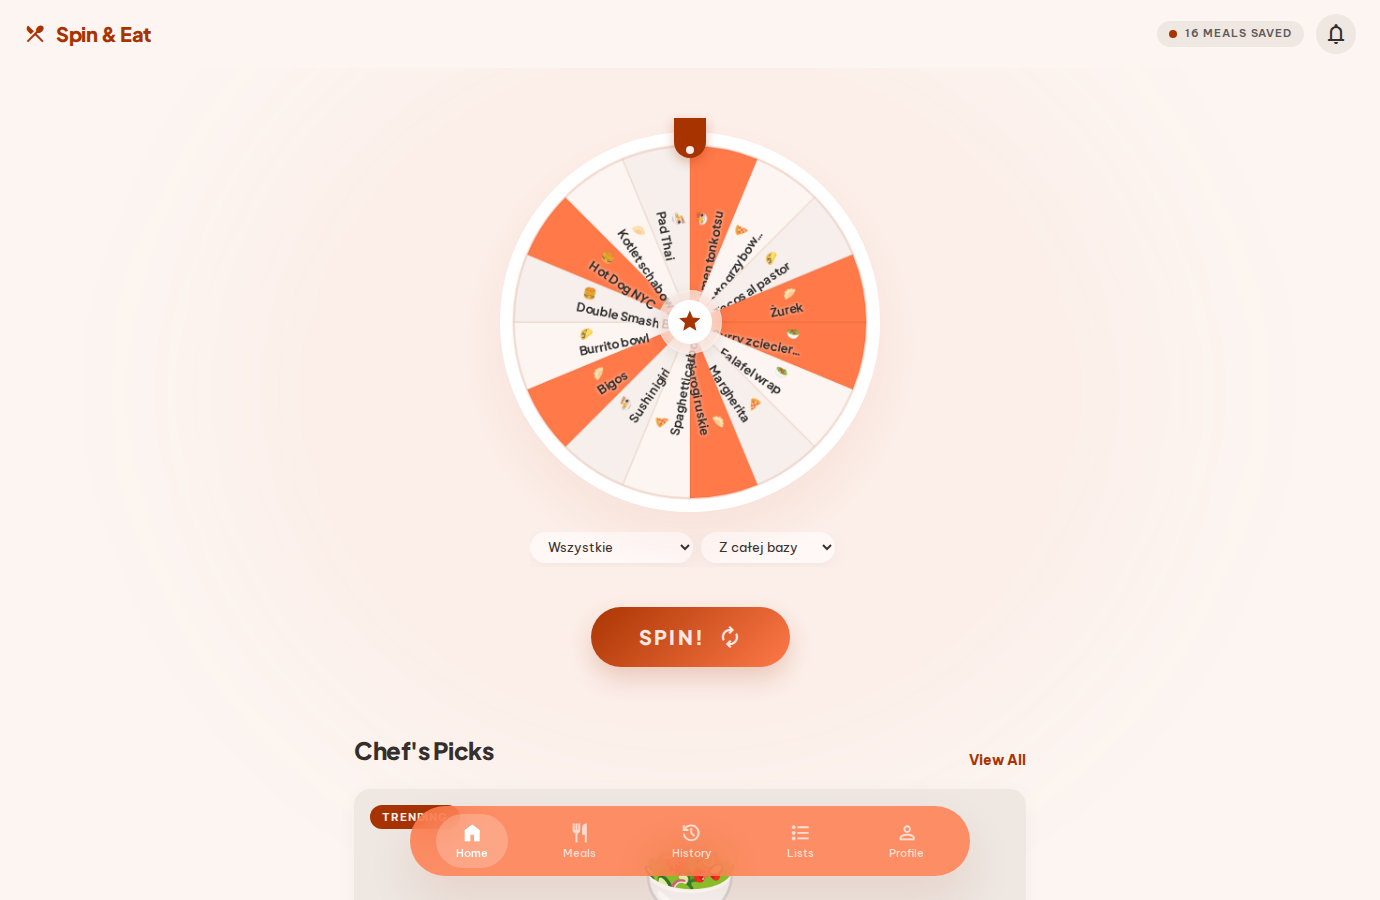
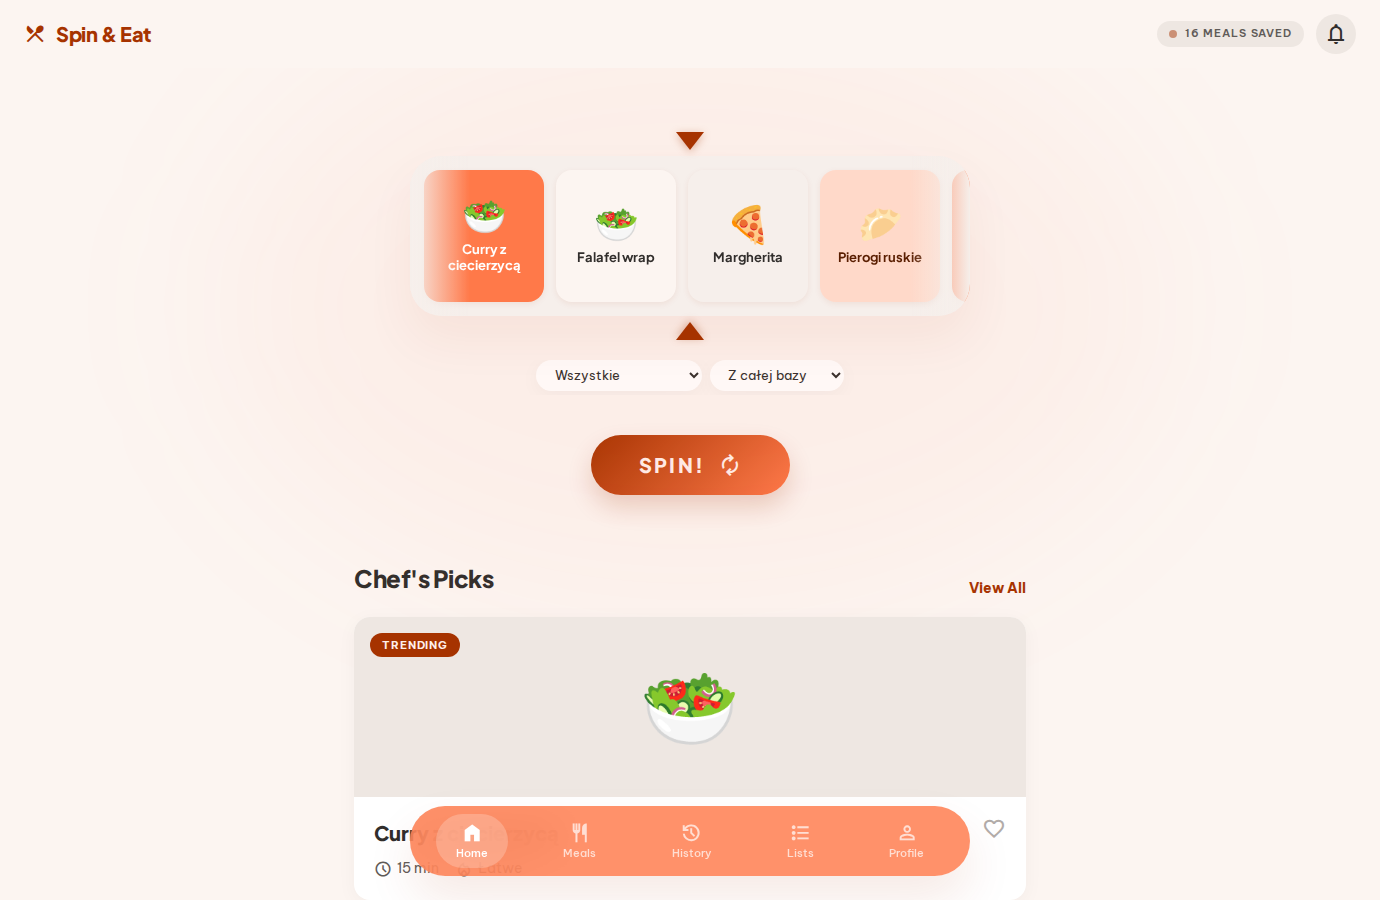
docs: describe the carousel UI and refresh home screenshots
README spoke about the canvas wheel — the spin section, test-scenario
steps and repo map now describe the case-opening carousel, and the
home screenshots show it with real category icons.

https://claude.ai/code/session_01Y6QPC6Dq2J4Tidk9ScebeA

diff --git a/README.md b/README.md
@@ -1,6 +1,6 @@
 # Spin & Eat
 
-> *"Co dzisiaj na obiad?" — losowanie dań z koła fortuny.*
+> *"Co dzisiaj na obiad?" — losowanie dań z animowanej karuzeli.*
 
 Pełna aplikacja webowa zbudowana w ramach **Wstępu do Projektowania Aplikacji Internetowych**.
 Bez frameworka, bez gotowych szablonów — czysty PHP 8.3 (OOP + SOLID), PostgreSQL 16, vanilla JavaScript (Fetch API), własna lekka warstwa MVC.
@@ -29,7 +29,7 @@ Bez frameworka, bez gotowych szablonów — czysty PHP 8.3 (OOP + SOLID), Postgr
 ## Temat i zakres
 
 **Problem:** codzienne "co zjeść?" potrafi blokować obiad bardziej niż brak składników w lodówce.
-**Rozwiązanie:** spersonalizowane koło fortuny — użytkownik zbiera bazę dań (własne + społeczność), filtruje po kategoriach lub własnych listach, kręci kołem i dostaje decyzję podaną w przyjemnej formie. Po posiłku może ocenić danie, dodać do ulubionych i podejrzeć historię losowań.
+**Rozwiązanie:** spersonalizowana karuzela losująca (styl "case-opening" znany z CS:GO) — użytkownik zbiera bazę dań (własne + społeczność), filtruje po kategoriach lub własnych listach, odpala losowanie i dostaje decyzję podaną w przyjemnej formie. Po posiłku może ocenić danie, dodać do ulubionych i podejrzeć historię losowań.
 
 **Zakres MVP:**
 
@@ -163,7 +163,7 @@ Wszystkie konta z seedu używają hasła **`Admin1234!`**.
 
 ## Funkcjonalności
 
-- **Koło fortuny** — animowany canvas, segmenty zsynchronizowane z wynikiem z backendu, filtry "kategoria" i "lista".
+- **Karuzela losująca** — poziomy pasek kart z animacją "case-opening", wskaźnik zatrzymuje się dokładnie na daniu wylosowanym przez backend, filtry "kategoria" i "lista".
 - **Katalog dań** — wyszukiwarka, chipsy kategorii, dodawanie własnych dań.
 - **Listy** — własne kolekcje dań do losowania, opcjonalnie publiczne.
 - **Ulubione** — szybkie zapisywanie na osi serca.
@@ -254,9 +254,9 @@ Sprawdza: pełny rejestracja → login → spin → ocena flow + dostęp do endp
 ## Scenariusz testowy (krok po kroku)
 
 1. **Uruchomienie** — `docker compose up -d` → `http://localhost` (lub port z `NGINX_PORT`) → widoczna strona "What's for dinner?" (guest hero).
-2. **Rejestracja** — klik "Zacznij teraz" → wypełnij email/hasło/imię (hasło min. 8 znaków + litera + cyfra) → konto utworzone, auto-login → przekierowanie do home z kołem.
-3. **Spin** — w dropdownie "Wszystkie" zostaw domyślne → klik **SPIN!** → koło kręci się 4 sekundy i zatrzymuje na konkretnym daniu → karta wyniku **dokładnie zgadza się** z segmentem.
-4. **Filtr na kategorię** — wybierz "Polska" w pierwszym dropdownie → segmenty koła momentalnie aktualizują się na polskie dania → kolejny spin tylko z tej puli.
+2. **Rejestracja** — klik "Zacznij teraz" → wypełnij email/hasło/imię (hasło min. 8 znaków + litera + cyfra) → konto utworzone, auto-login → przekierowanie do home z karuzelą.
+3. **Spin** — w dropdownie "Wszystkie" zostaw domyślne → klik **SPIN!** → karuzela przejeżdża ~5–6 sekund z mocnym wyhamowaniem i zatrzymuje się na konkretnym daniu → karta wyniku **dokładnie zgadza się** z kartą pod wskaźnikiem.
+4. **Filtr na kategorię** — wybierz "Polska" w pierwszym dropdownie → karty karuzeli momentalnie aktualizują się na polskie dania → kolejny spin tylko z tej puli.
 5. **Filtr na własną listę** — przejdź do *Lists* → utwórz listę "Moje weekendy" → dodaj kilka dań przez "+ Dodaj danie" → wróć do home → w drugim dropdownie wybierz tę listę → spin losuje tylko z listy.
 6. **Ulubione** — w *Meals* otwórz danie → "❤️ Dodaj do ulubionych" → w sekcji *Favorites* danie się pojawia (toast "Dodano").
 7. **Ocena** — po spinie klik "Oceń danie" → wybierz 5★ + komentarz → "Zapisz" → wracając do tego dania widać średnią.
@@ -321,7 +321,7 @@ spinneat/
 │   ├── js/
 │   │   ├── api.js                # warstwa Fetch + CSRF
 │   │   ├── auth.js               # stan sesji
-│   │   ├── wheel.js              # animacja canvas
+│   │   ├── wheel.js              # karuzela losująca (case-opening)
 │   │   ├── app.js                # router SPA, Toast, Modal, esc()
 │   │   └── pages/                # home, dishes, lists, login, …
 │   └── errors/                   # 400/401/403/404/500.html